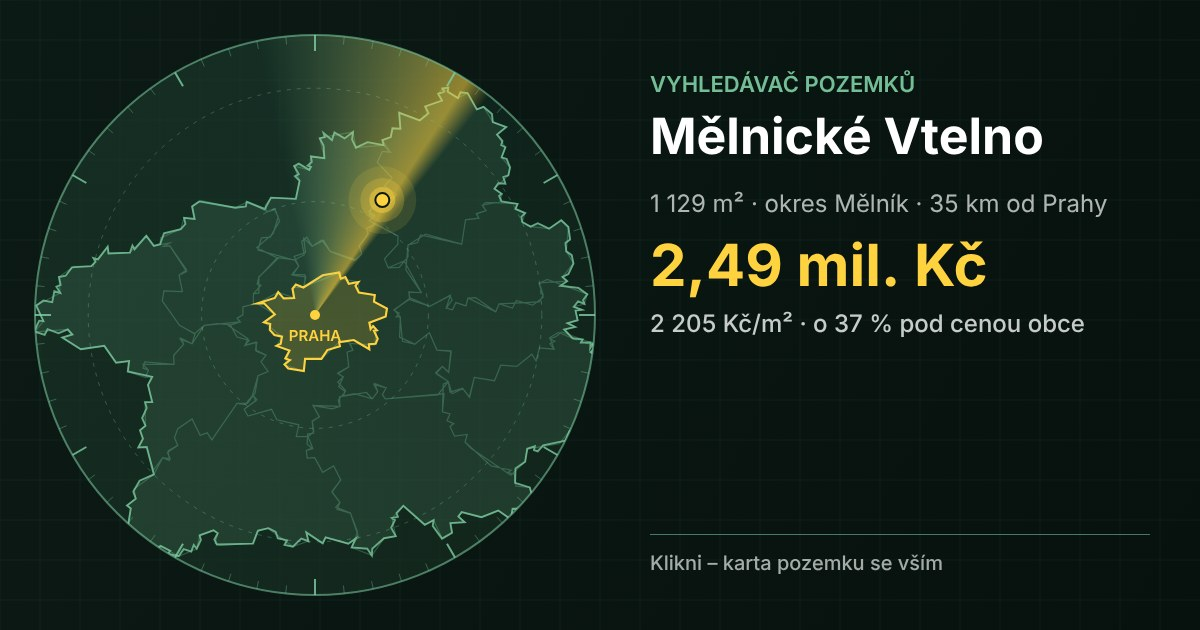
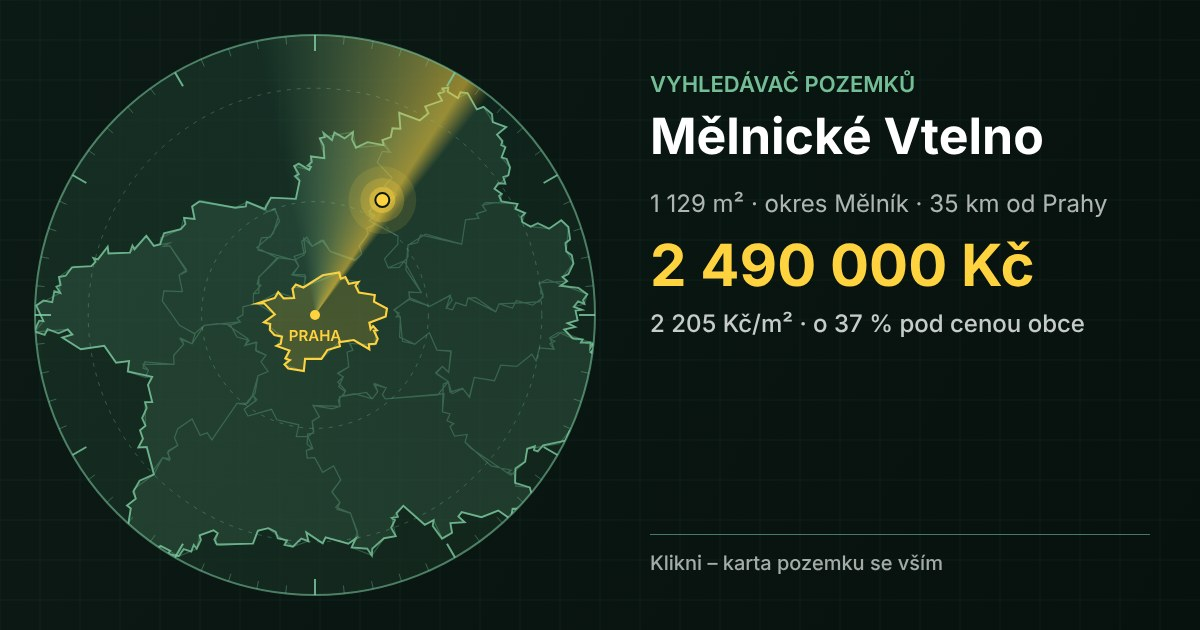
Náhled Hradešín: 2 pozemky, ceny 3 200 000 Kč + 3 700 000 Kč, sleva; celé Kč
Claude-Session: https://claude.ai/code/session_01MoaZpwJieQugdyTZZ3RK1K

Changed region(s): [[0.5858, 0.3619, 0.8633, 0.4524], [0.555, 0.4524, 0.5858, 0.4825]]

diff --git a/k/sreality-3248275532.html b/k/sreality-3248275532.html
@@ -1,8 +1,8 @@
 <!doctype html><html lang="cs"><head><meta charset="utf-8"><meta name="viewport" content="width=device-width,initial-scale=1">
-<title>Hradešín – 2 pozemky, 4 domy · Vyhledávač pozemků</title><meta name="description" content="812 m² · 3,00 mil. Kč · okres Kolín · 23 km od Prahy">
-<meta property="og:type" content="website"><meta property="og:site_name" content="Vyhledávač pozemků"><meta property="og:title" content="Hradešín – 2 pozemky, 4 domy · Vyhledávač pozemků"><meta property="og:description" content="812 m² · 3,00 mil. Kč · okres Kolín · 23 km od Prahy">
-<meta property="og:image" content="https://tommygee-claude.github.io/karta/k/sreality-3248275532.jpg?v=mvyr6lmx"><meta property="og:image:width" content="1200"><meta property="og:image:height" content="630"><meta property="og:url" content="https://tommygee-claude.github.io/karta/k/sreality-3248275532.html">
-<meta name="twitter:card" content="summary_large_image"><meta name="twitter:image" content="https://tommygee-claude.github.io/karta/k/sreality-3248275532.jpg?v=mvyr6lmx">
+<title>Hradešín – 2 pozemky · Vyhledávač pozemků</title><meta name="description" content="2 pozemky · 1 629 m² · 3 200 000 Kč + 3 700 000 Kč = 6 900 000 Kč (sleva 900 000 – 1 000 000 Kč) · okres Kolín · 23 km od Prahy">
+<meta property="og:type" content="website"><meta property="og:site_name" content="Vyhledávač pozemků"><meta property="og:title" content="Hradešín – 2 pozemky · Vyhledávač pozemků"><meta property="og:description" content="2 pozemky · 1 629 m² · 3 200 000 Kč + 3 700 000 Kč = 6 900 000 Kč (sleva 900 000 – 1 000 000 Kč) · okres Kolín · 23 km od Prahy">
+<meta property="og:image" content="https://tommygee-claude.github.io/karta/k/sreality-3248275532.jpg?v=mw59jb9v"><meta property="og:image:width" content="1200"><meta property="og:image:height" content="630"><meta property="og:url" content="https://tommygee-claude.github.io/karta/k/sreality-3248275532.html">
+<meta name="twitter:card" content="summary_large_image"><meta name="twitter:image" content="https://tommygee-claude.github.io/karta/k/sreality-3248275532.jpg?v=mw59jb9v">
 <meta http-equiv="refresh" content="0;url=https://claude.ai/artifact/LPUksfypRdYod6b5fz7vpv#karta-sreality-3248275532">
 <style>body{margin:0;background:#0c1a15;color:#e7ece8;font:16px -apple-system,Segoe UI,Roboto,Arial,sans-serif;display:grid;place-items:center;min-height:100vh}a{color:#ffd23f}</style>
 <script>(function(){var c="https://claude.ai/artifact/LPUksfypRdYod6b5fz7vpv#karta-sreality-3248275532";if(!c){var m=location.search.match(/[?&]k=([A-Za-z0-9._~-]{1,200})/);c="https://claude.ai/artifact/LPUksfypRdYod6b5fz7vpv"+(m?'#karta-'+m[1]:'')}location.replace(c)})()</script>

diff --git a/k/sreality-4251652172.html b/k/sreality-4251652172.html
@@ -1,8 +1,8 @@
 <!doctype html><html lang="cs"><head><meta charset="utf-8"><meta name="viewport" content="width=device-width,initial-scale=1">
-<title>Mělnické Vtelno · Vyhledávač pozemků</title><meta name="description" content="1 129 m² · 2,49 mil. Kč · okres Mělník · 35 km od Prahy">
-<meta property="og:type" content="website"><meta property="og:site_name" content="Vyhledávač pozemků"><meta property="og:title" content="Mělnické Vtelno · Vyhledávač pozemků"><meta property="og:description" content="1 129 m² · 2,49 mil. Kč · okres Mělník · 35 km od Prahy">
-<meta property="og:image" content="https://tommygee-claude.github.io/karta/k/sreality-4251652172.jpg?v=mvyr6lkb"><meta property="og:image:width" content="1200"><meta property="og:image:height" content="630"><meta property="og:url" content="https://tommygee-claude.github.io/karta/k/sreality-4251652172.html">
-<meta name="twitter:card" content="summary_large_image"><meta name="twitter:image" content="https://tommygee-claude.github.io/karta/k/sreality-4251652172.jpg?v=mvyr6lkb">
+<title>Mělnické Vtelno · Vyhledávač pozemků</title><meta name="description" content="1 129 m² · 2 490 000 Kč · okres Mělník · 35 km od Prahy">
+<meta property="og:type" content="website"><meta property="og:site_name" content="Vyhledávač pozemků"><meta property="og:title" content="Mělnické Vtelno · Vyhledávač pozemků"><meta property="og:description" content="1 129 m² · 2 490 000 Kč · okres Mělník · 35 km od Prahy">
+<meta property="og:image" content="https://tommygee-claude.github.io/karta/k/sreality-4251652172.jpg?v=mw59jb8u"><meta property="og:image:width" content="1200"><meta property="og:image:height" content="630"><meta property="og:url" content="https://tommygee-claude.github.io/karta/k/sreality-4251652172.html">
+<meta name="twitter:card" content="summary_large_image"><meta name="twitter:image" content="https://tommygee-claude.github.io/karta/k/sreality-4251652172.jpg?v=mw59jb8u">
 <meta http-equiv="refresh" content="0;url=https://claude.ai/artifact/LPUksfypRdYod6b5fz7vpv#karta-sreality-4251652172">
 <style>body{margin:0;background:#0c1a15;color:#e7ece8;font:16px -apple-system,Segoe UI,Roboto,Arial,sans-serif;display:grid;place-items:center;min-height:100vh}a{color:#ffd23f}</style>
 <script>(function(){var c="https://claude.ai/artifact/LPUksfypRdYod6b5fz7vpv#karta-sreality-4251652172";if(!c){var m=location.search.match(/[?&]k=([A-Za-z0-9._~-]{1,200})/);c="https://claude.ai/artifact/LPUksfypRdYod6b5fz7vpv"+(m?'#karta-'+m[1]:'')}location.replace(c)})()</script>
